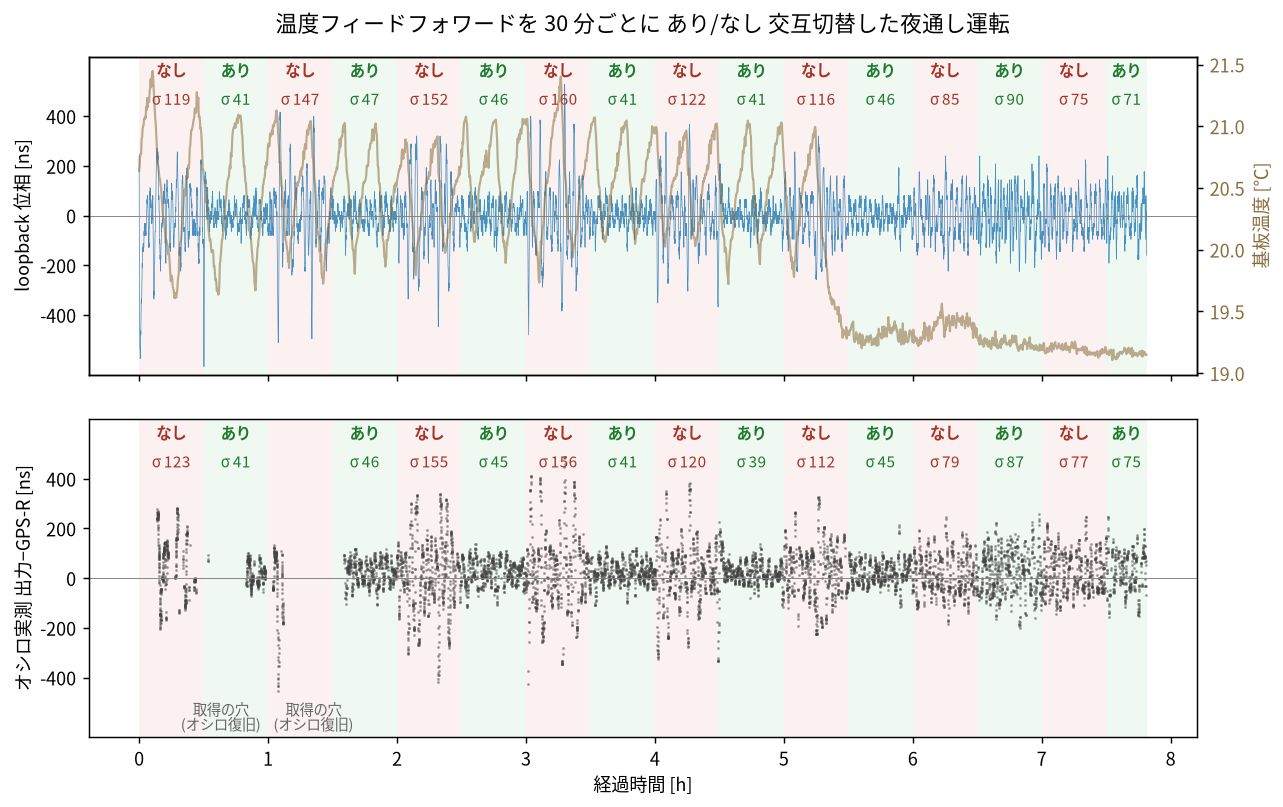
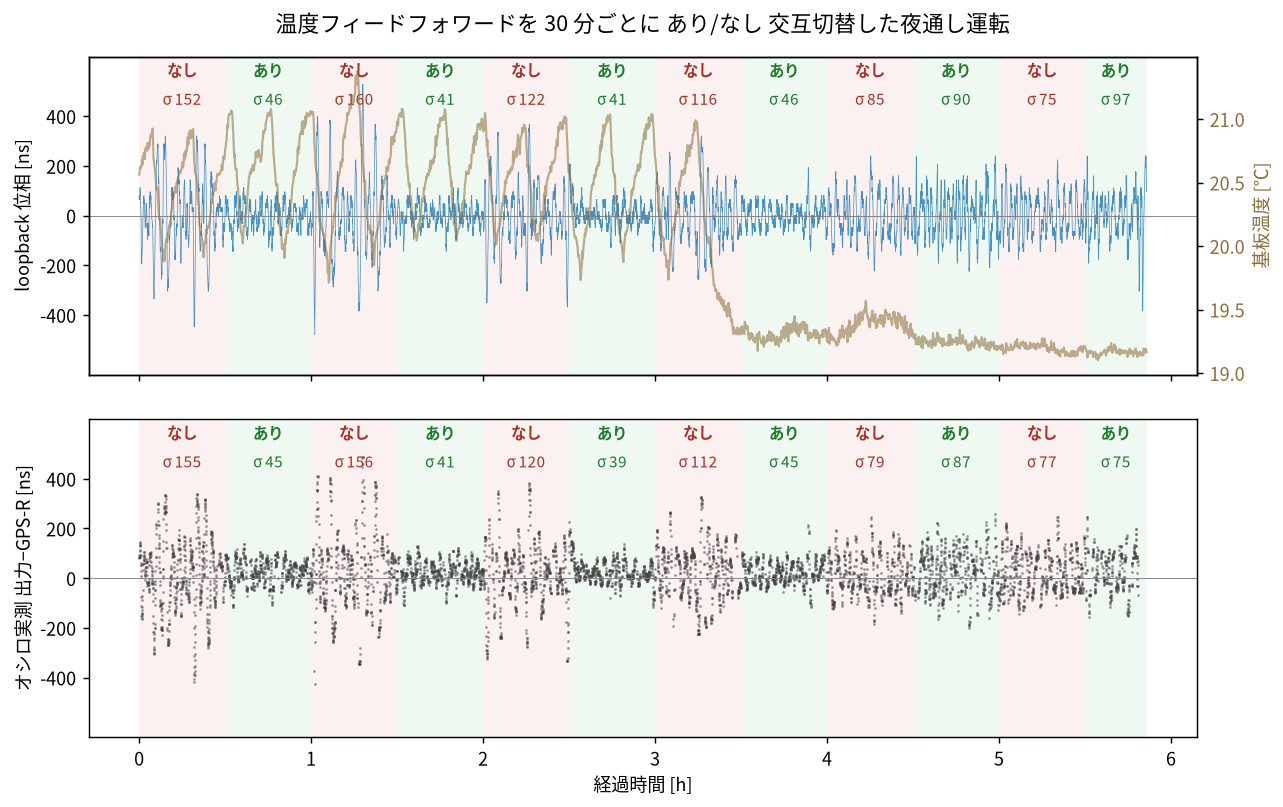
docs(precision): fig11 と統計を取得の穴のあとの連続 12 区間にそろえる
序盤のオシロ復旧の穴を含む窓で図を描いていたのを、穴のあとの
連続部分 (あり/なし各 6 区間) に切り詰め、両計器を同じ窓で比較する
形にした。本文の数値も再集計 (プール σ: loopback 62 対 122、
オシロ 57 対 122)。温度公平性は前半の区間内振れ幅で記述。

Claude-Session: https://claude.ai/code/session_01QA3SZ4k1hmnnVeG51UZWBZ

diff --git a/logs/20260705-tempff-abab/fig_abab.py b/logs/20260705-tempff-abab/fig_abab.py
@@ -55,6 +55,19 @@ for line in open(os.path.join(HERE, "abab.shots")):
     t, v = line.split()
     shots.append((float(t) - anchor_epoch + c_last, float(v)))
 
+# 序盤にオシロ復旧の取得の穴があるので、穴のあとの最初のセグメント境界から先だけを
+# 図と統計に使う (両計器を同じ窓でそろえ、部分区間も作らない)
+CUT_AFTER_GAP = True
+if CUT_AFTER_GAP:
+    gap_ends = [b for (a, _), (b, _) in zip(shots, shots[1:]) if b - a > 240]
+    if gap_ends:
+        cut = min(c0 for _, c0, _ in segs if c0 >= max(gap_ends))
+        segs = [(s, c0, c1) for s, c0, c1 in segs if c0 >= cut]
+        rows = [r for r in rows if r[0] >= cut]
+        shots = [p for p in shots if p[0] >= cut]
+        c_first = cut
+
+
 def seg_stats(data):
     """data: (count, value) の列 → セグメントごとの (state, c0, c1, vals)"""
     out = []

diff --git a/docs/report/precision-ladder/README.md b/docs/report/precision-ladder/README.md
@@ -390,15 +390,15 @@ clamp 版を焼き、加熱レートを約 1.1℃/10s に揃えて A/B を取る
 
 速い外乱への過反応は clamp で止めた。残っているのは、長時間運転の節で「温度に寄っているらしい」までしか言えなかった、定常の遅いふらつきへの効き目だ。別の日の長時間ログどうしを比べる手もあるが、日が違えば受信も室温の動きも違うので、差がフィードフォワードのものか日のものかを分けられない。
 
-そこで、同じ夜の中で条件だけを動かす。構成はスリップ修正済みの全部入りから定期校正だけを外して固定し(校正で入る位相の段が比較を汚さないようにする)、温度フィードフォワードの適用だけを 30 分ごとにあり/なしへ交互に切り替えて、約 7 時間 50 分連続で走らせる。交互に何度も繰り返すのは、室温のゆっくりした変化が特定の側にだけ当たる偶然を避けるためだ。記録は firmware の loopback 位相(毎秒)と、オシロでの実測(GPS-R PPS と出力エッジの差)の両方を取り、切り替え直後の 5 分は整定として統計から除く。
+そこで、同じ夜の中で条件だけを動かす。構成はスリップ修正済みの全部入りから定期校正だけを外して固定し(校正で入る位相の段が比較を汚さないようにする)、温度フィードフォワードの適用だけを 30 分ごとにあり/なしへ交互に切り替えて、約 7 時間 50 分連続で走らせる。交互に何度も繰り返すのは、室温のゆっくりした変化が特定の側にだけ当たる偶然を避けるためだ。記録は firmware の loopback 位相(毎秒)と、オシロでの実測(GPS-R PPS と出力エッジの差)の両方を取り、切り替え直後の 5 分は整定として統計から除く。序盤はオシロ側の取得が復旧作業で欠けているので、図と統計は、その穴のあとの連続した 12 区間(あり/なし各 6)で両方の計器をそろえる。
 
 ![温度フィードフォワードだけを 30 分ごとに切り替えた夜通し運転。上: loopback 位相と基板温度、下: オシロ実測。なしの区間だけ遅いふらつきが暴れ、明け方に温度が平坦になると差が消える](precision-figs/fig11-tempff-abab.png)
 
-結果はあり/なし各 8 区間そろった。室温が動いているあいだ、なしの区間だけ σ が 116〜160 ns に暴れ、ありへ戻すたびに 41〜47 ns へ締まる。全区間をプールすると、loopback 位相で σ 54 ns 対 125 ns、オシロの実測でも σ 54 ns 対 123 ns になり、firmware の自己申告と独立計器が同じ約 2.3 倍の差を出す。1 発ごとの ≤100 ns 率は、ありの 92〜95% に対し、なしは 63〜66% まで落ちる。一方で中央値のずれはどちらの側も ±10 ns 程度で変わらない(オシロの mean は両側とも +20 ns 前後)。フィードフォワードが変えているのは中心の位置ではなく、ゆっくりしたふらつきの振幅だ。
+室温が動いているあいだ、なしの区間だけ σ が 112〜160 ns に暴れ、ありへ戻すたびに 39〜46 ns へ締まる。12 区間をプールすると、loopback 位相で σ 62 ns 対 122 ns、オシロの実測でも σ 57 ns 対 122 ns になり、firmware の自己申告と独立計器が同じ約 2 倍の差を出す。1 発ごとの ≤100 ns 率は、ありの 91〜92% に対し、なしは 66〜68% まで落ちる。一方で中央値のずれはどちらの側も ±10 ns 程度で変わらない(オシロの mean は両側とも +20 ns 前後)。フィードフォワードが変えているのは中心の位置ではなく、ゆっくりしたふらつきの振幅だ。
 
-図の温度トレースには、約 30 分周期で 0.5℃ 級の室温の上下(空調の周期とみられる)が写っていて、なしの区間の位相の山は、そのランプの急な区間で出ている。切替周期と空調の周期が近いので、なしの側だけがランプに当たり続けた偶然も疑ったが、区間内の温度の振れ幅は、なし側の中央値 1.28℃ に対し、あり側 1.14℃ でそろっている。さらに、明け方に空調が止まって温度が平坦になると(図の 5.4 時間以降)、なしの σ も 75〜85 ns へ下がり、あり側(71〜90 ns)との差がほぼ消える。温度外乱が大きいときだけ差が開き、温度が静かなら差がない。遅いふらつきの主因は温度で、その大部分を温度フィードフォワードが吸収している。長時間ログの相関では切り分けられなかった帰属が、介入でここまで言えるようになった。
+図の温度トレースには、約 30 分周期で 1℃ 弱の室温の上下(空調の周期とみられる)が写っていて、なしの区間の位相の山は、そのランプの急な区間で出ている。切替周期と空調の周期が近いので、なしの側だけがランプに当たり続けた偶然も疑ったが、室温が動いていた前半で、区間内の温度の振れ幅は、なし側 1.0〜1.8℃、あり側 1.1〜1.2℃ でそろっている。さらに、明け方に空調が止まって室温が約 1℃ 下がりきって平坦になると(図の 3.4 時間あたりから)、なしの σ も 75〜85 ns へ下がり、あり側(75〜97 ns)と区別がつかなくなる。温度外乱が大きいときだけ差が開き、温度が静かなら差がない。遅いふらつきの主因は温度で、その大部分を温度フィードフォワードが吸収している。長時間ログの相関では切り分けられなかった帰属が、介入でここまで言えるようになった。
 
-なお、温度が平坦だった明け方の σ 70〜90 ns は、フィードフォワードでは消えない側の床になる。この床が受信から来るのか、GPS-R の 1PPS 自身のゆらぎなのかは、この測定系では出力も観測も同じ GPS-R を基準にしているため分けられない。ここから先は外部の独立基準の話になる。
+なお、温度が平坦だった明け方の σ 75〜97 ns は、フィードフォワードでは消えない側の床になる。この床が受信から来るのか、GPS-R の 1PPS 自身のゆらぎなのかは、この測定系では出力も観測も同じ GPS-R を基準にしているため分けられない。ここから先は外部の独立基準の話になる。
 
 ## 再起動で戻るか
 
